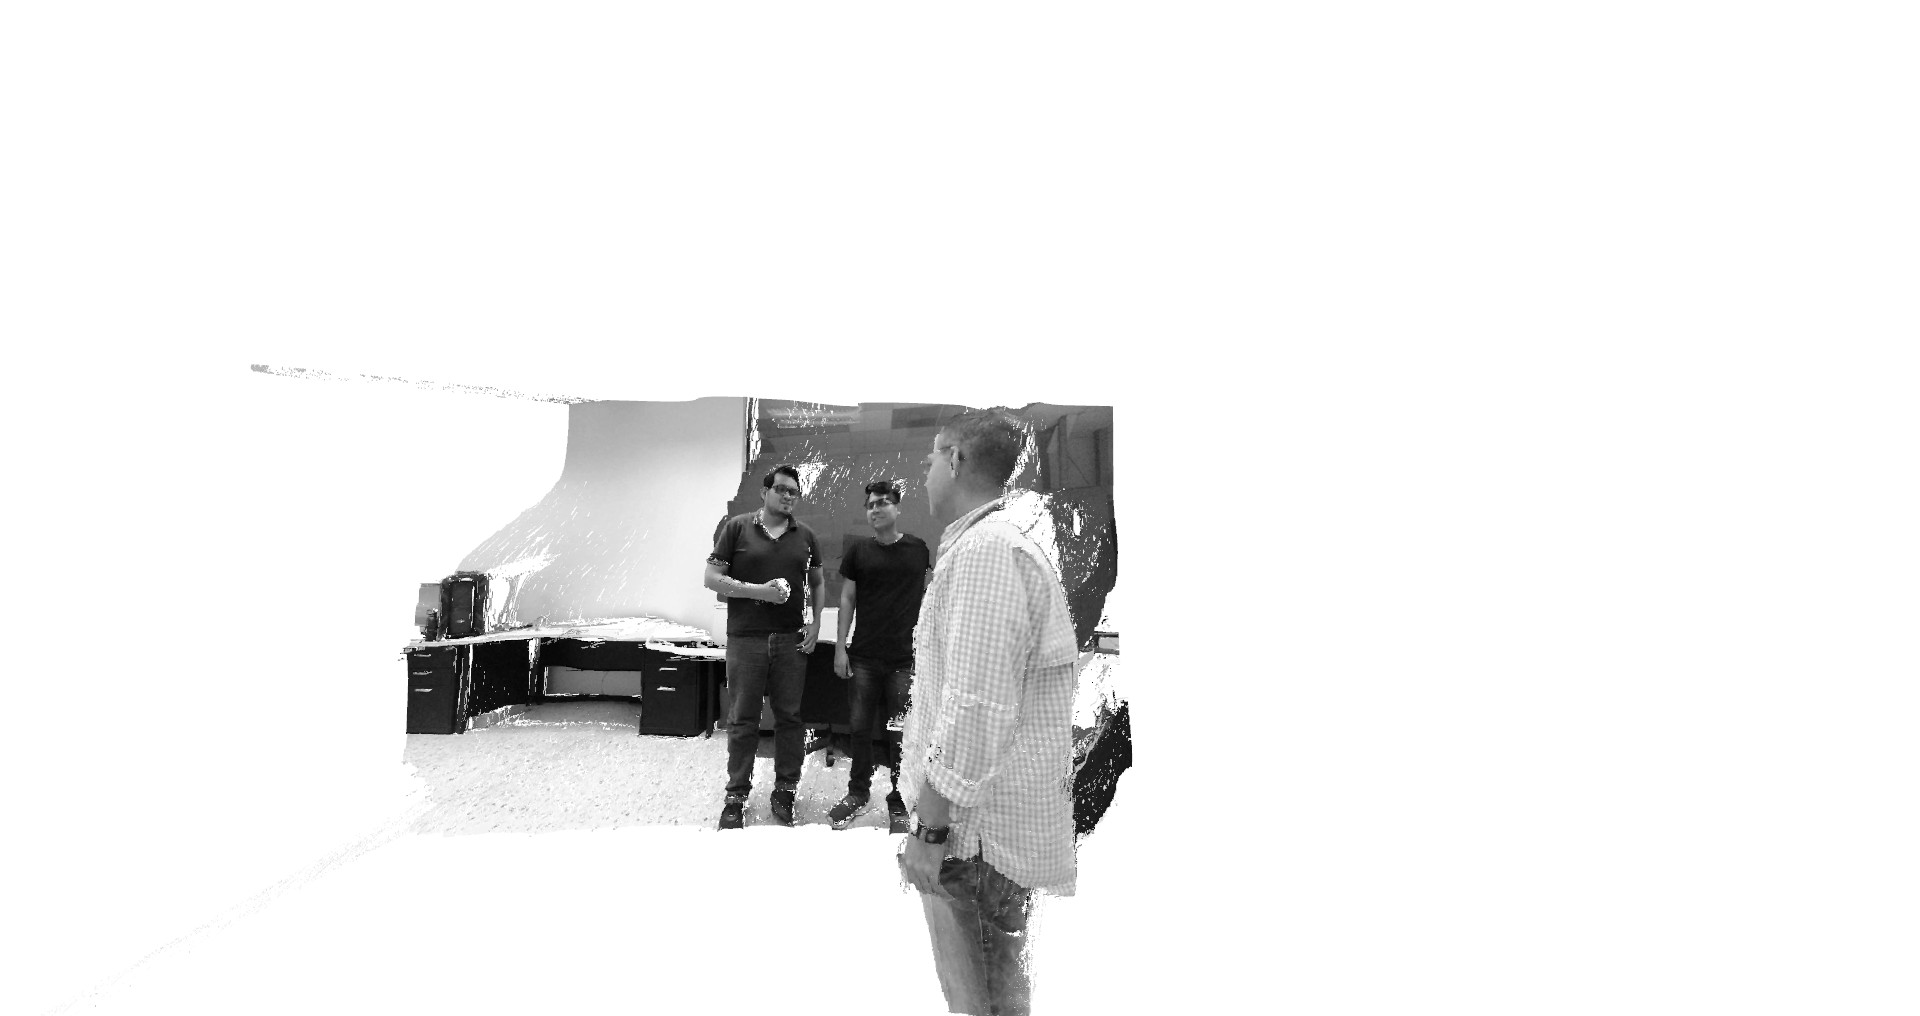
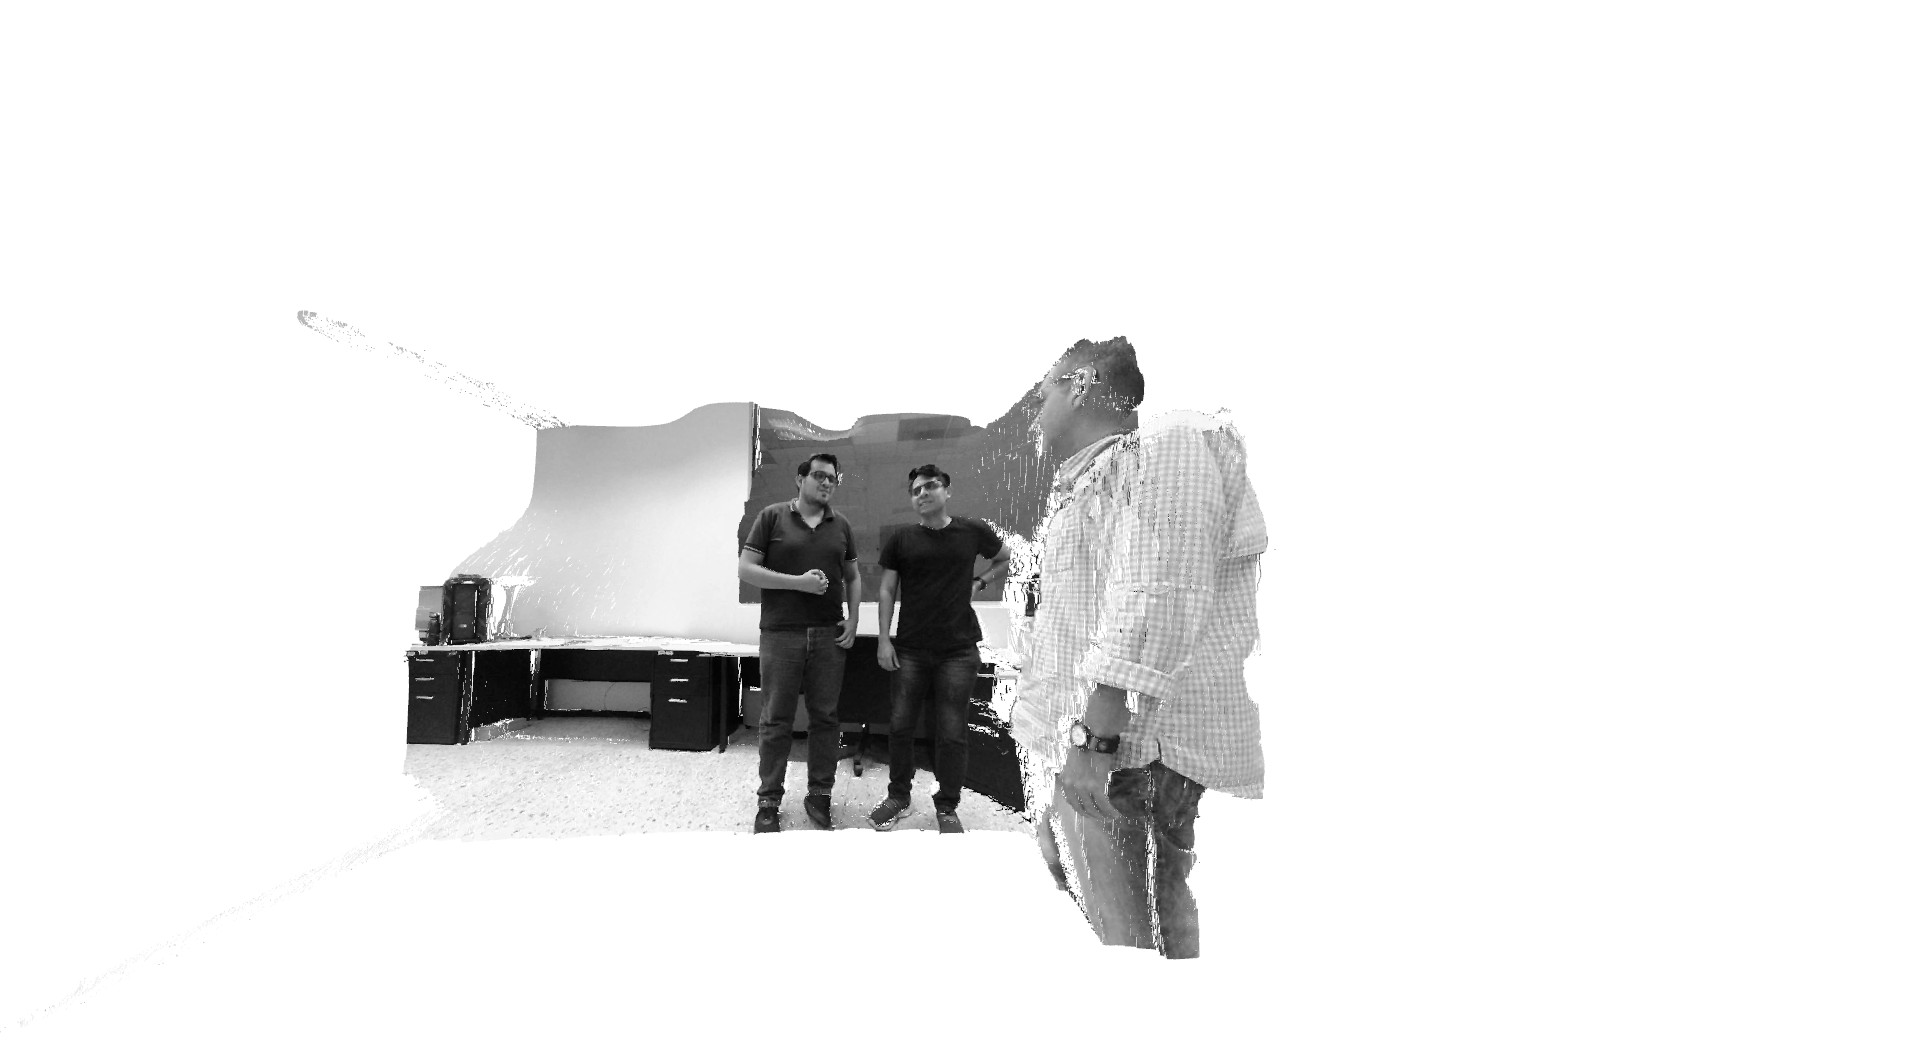
Centroids update

Changed region(s): [[0.1875, 0.3051, 0.6875, 1.0]]

diff --git a/dense_point_cloud/point_cloud_visualizer.py b/dense_point_cloud/point_cloud_visualizer.py
@@ -1,29 +1,50 @@
 import open3d as o3d
 import numpy as np
+from sklearn.cluster import DBSCAN
+def visualize_sparse_point_cloud(pcd_file, eps=100, min_samples=6):
 
-def visualize_sparse_point_cloud(pcd_file, centroid_file=None):
-
-    # Leer la nube de puntos y los centroides
+    # Leer la nube de puntos
     pcd = o3d.io.read_point_cloud(pcd_file)
-    centroid_cloud = o3d.io.read_point_cloud(centroid_file)
-    origin = o3d.geometry.TriangleMesh.create_coordinate_frame(size=10, origin=[0,0,0])
+    points = np.asarray(pcd.points)
+    colors = np.array([[0, 0, 1] for i in range(len(pcd.points))])
 
-    # Obtener el Axis-Aligned Bounding Box (AABB)
+# Asignar los colores a la nube de puntos
+    pcd.colors = o3d.utility.Vector3dVector(colors)
+
+    # Aplicar DBSCAN
+    db = DBSCAN(eps=eps, min_samples=min_samples).fit(points)
+    labels = db.labels_
+
+    # Encontrar el número de clusters (excluyendo ruido)
+    unique_labels = set(labels)
+    unique_labels.discard(-1)  # Eliminar el ruido (-1)
+
+
+     # Obtener el Axis-Aligned Bounding Box (AABB)
     aabb = pcd.get_axis_aligned_bounding_box()
     aabb.color = (1, 0, 0)
-    
-    # Obtener el Oriented Bounding Box (OBB)
-    obb = pcd.get_oriented_bounding_box()
-    obb.color = (0, 1, 0)
-    
+
+    # Crear visualización de clusters y centroides
+    geometries = [pcd, aabb]
+    origin = o3d.geometry.TriangleMesh.create_coordinate_frame(size=10, origin=[0, 0, 0])
+    geometries.append(origin)
+
+    for label in unique_labels:
+        cluster_points = points[labels == label]
+        centroid = cluster_points.mean(axis=0)
+        
+        # Crear una pequeña esfera en el centroide para visualizarlo
+        centroid_sphere = o3d.geometry.TriangleMesh.create_sphere(radius=0.5)
+        centroid_sphere.translate(centroid)
+        centroid_sphere.paint_uniform_color([1, 0, 0])  # Color rojo para el centroide
+        geometries.append(centroid_sphere)
+
     # Crear el visualizador
     viewer = o3d.visualization.Visualizer()
     viewer.create_window()
 
     # Visualizar las geometrías
-    #o3d.visualization.draw_geometries([pcd, origin, aabb])
-    o3d.visualization.draw_geometries([pcd, centroid_cloud, origin, aabb])
-
+    o3d.visualization.draw_geometries(geometries)
 
     # Destruir la ventana del visualizador
     viewer.destroy_window()
@@ -120,7 +141,7 @@ if __name__ == "__main__":
 
     config = "matlab_1"
     mask = "keypoint"
-    situacion = "150_a_corrected"
+    situacion = "150_500"
 
     filepath = f"./point_clouds/{config}/{mask}_disparity/{config}_{situacion}"
 
@@ -130,14 +151,14 @@ if __name__ == "__main__":
 
     
     # Visualización de la nube de puntos dispersa
-    sparse_pcd_file = f"{filepath}_person0_original.ply"
-    centroid_file = f"{filepath}_person0_centroids.ply"
+    sparse_pcd_file = f"{filepath}_original.ply"
+    #centroid_file = f"{filepath}_centroids.ply"
 
     # Imprimir coordenadas Z de los centroides
     # print_centroid_z_coordinates(centroid_file)
     
     # Visualizar la nube de puntos dispersa
-    visualize_sparse_point_cloud(sparse_pcd_file, centroid_file)
+    visualize_sparse_point_cloud(sparse_pcd_file)
 
     
 
